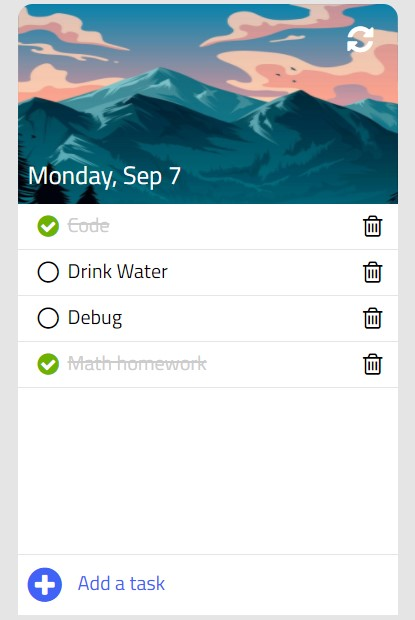
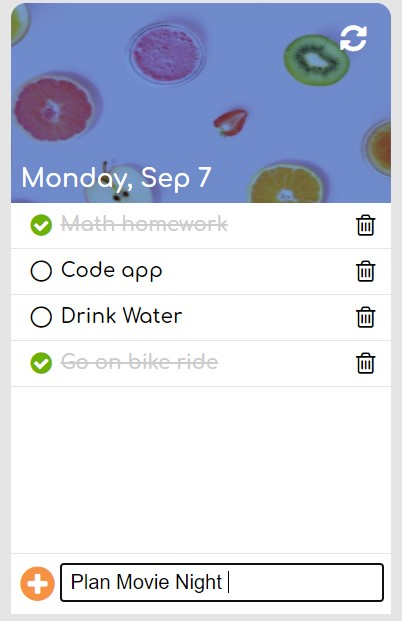
edit readme, edit font, edit image

diff --git a/css/style.css b/css/style.css
@@ -3,7 +3,7 @@ body{
     padding: 0;
     margin: 0;
     background-color: rgba(0,0,0,0.1);
-    font-family: 'Titillium Web', sans-serif;
+    font-family: 'Comfortaa', sans-serif;
 }
 
 /* ------------ container ------------ */
@@ -45,7 +45,7 @@ body{
     left: 10px;
     color: #FFF;
     font-size: 25px;
-    font-family: 'Titillium Web', sans-serif;
+    font-family: 'Comfortaa', sans-serif;
 }
 
 /* ------------ content ------------ */
@@ -93,6 +93,7 @@ body{
     font-size: 20px;
     left:50px;
     top:5px;
+    padding-top: 5px;
     background-color: #FFF;
     max-width:285px;
 }
@@ -122,7 +123,7 @@ body{
 .add-to-do i{
     position: absolute;
     font-size: 40px;
-    color: #4162f6;
+    color: #f69241;
 }
 
 .add-to-do input{
@@ -136,23 +137,23 @@ body{
     padding-left:10px;
 }
 .add-to-do input::-webkit-input-placeholder { /* Chrome/Opera/Safari */
-    color: #4162f6;
-    font-family: 'Titillium Web', sans-serif;
+    color: #ca5b00;
+    font-family: 'Comfortaa', sans-serif;
     font-size: 20px;
 }
 .add-to-do input::-moz-placeholder { /* Firefox 19+ */
     color: #4162f6;
-    font-family: 'Titillium Web', sans-serif;
+    font-family: 'Comfortaa', sans-serif;
     font-size: 20px;
 }
 .add-to-do input:-ms-input-placeholder { /* IE 10+ */
     color: #4162f6;
-    font-family: 'Titillium Web', sans-serif;
+    font-family: 'Comfortaa', sans-serif;
     font-size: 20px;
 }
 .add-to-do input:-moz-placeholder { /* Firefox 18- */
     color: #4162f6;
-    font-family: 'Titillium Web', sans-serif;
+    font-family: 'Comfortaa', sans-serif;
     font-size: 20px;
 }
 

diff --git a/index.html b/index.html
@@ -4,8 +4,8 @@
 <head>
     <meta charset="UTF-8">
     <title>To Do List</title>
-    <link rel="stylesheet" href="https://fonts.googleapis.com/css?family=Titillium+Web">
-    <link rel="stylesheet" href="css/font-awesome.css">
+    <link href="https://fonts.googleapis.com/css2?family=Comfortaa:wght@600&display=swap" rel="stylesheet"> 
+    <link rel="stylesheet" href="css/font-awesome.css">  
     <link rel="stylesheet" href="css/style.css">
 </head>
 
